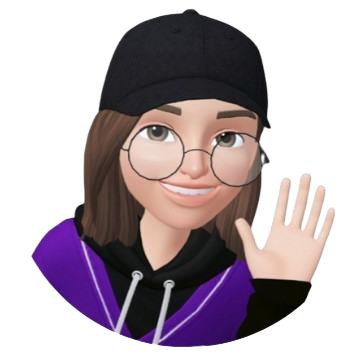
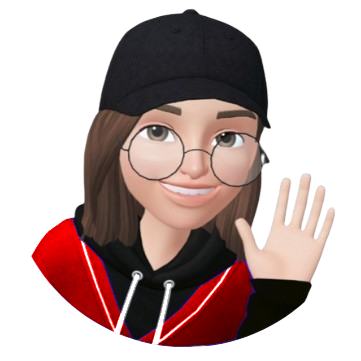
adicionando nina como mascote do chatbot

Changed region(s): [[0.3961, 0.7008, 0.7008, 0.9751], [0.0914, 0.6094, 0.3657, 0.9446], [0.3657, 0.7618, 0.3961, 0.7922]]

diff --git a/upload-ai-web/src/components/chatbot/chatbot.css b/upload-ai-web/src/components/chatbot/chatbot.css
@@ -1,4 +1,4 @@
-/* src/components/chatbot/Chatbot.css */
+@import url('https://fonts.googleapis.com/css2?family=Inter:wght@400;500;600&display=swap');
 
 .chatbot-widget-container {
     position: fixed;
@@ -39,15 +39,10 @@
     background-color: hsl(var(--muted)); 
     color: hsl(var(--muted-foreground));
 }
-.avatar svg { /* Se estiver usando ícones SVG como Lucide */
-    width: 20px;
-    height: 20px;
-}
-
 
 .message {
-    padding: 12px 18px; /* Mais padding interno */
-    max-width: calc(100% - 52px); /* Desconta o avatar e margens */
+    padding: 12px 18px;
+    max-width: calc(100% - 52px);
     word-wrap: break-word;
     line-height: 1.5;
     box-shadow: 0 1px 2px rgba(0,0,0,0.07);
@@ -61,12 +56,11 @@
 }
 
 .chatbot-toggle-button {
-    background-color: hsl(var(--primary));
     color: hsl(var(--primary-foreground));
     border: none;
     border-radius: 50%;
-    width: 60px;
-    height: 60px;
+    width: 80px;
+    height: 80px;
     font-size: 24px;
     cursor: pointer;
     box-shadow: 0 4px 8px rgba(0,0,0,0.2);
@@ -76,7 +70,7 @@
 }
 
 .chatbot-window {
-    width: 350px;
+    width: 365px;
     height: 500px;
     background-color: hsl(var(--popover, var(--card)));
     color: hsl(var(--popover-foreground, var(--card-foreground)));
@@ -87,6 +81,14 @@
     flex-direction: column;
     overflow: hidden;
     margin-top: 10px;
+    background-image: url('src/img/background-dark.jpg');
+    font-family: 'Inter', sans-serif;
+}
+
+html.light .chatbot-window,
+body.light .chatbot-window, 
+.light-theme .chatbot-window {
+    background-image: url('src/img/background-light.jpg'); 
 }
 
 .chatbot-header {
@@ -107,6 +109,13 @@
     color: inherit;
     font-size: 1.5em;
     cursor: pointer;
+}
+
+.chatbot-header-title {
+    font-size: 1.1em; 
+    font-weight: 600; 
+    color: hsl(var(--foreground));
+    letter-spacing: -0.01em; 
 }
 
 .chatbot-messages {
@@ -175,4 +184,15 @@
 
 .chatbot-input-area button:hover {
     filter: brightness(0.9);
+}
+
+.chatbot-toggle-button:hover {
+    transform: translateY(-2px) scale(1.05);
+    box-shadow: 0 8px 16px rgba(0,0,0, 0.25), 0 3px 6px rgba(0,0,0, 0.2);
+}
+
+.chatbot-toggle-icon {
+    width: 100%; 
+    height: 100%;
+    object-fit: cover;
 }

diff --git a/upload-ai-web/src/components/chatbot/ChatbotWidget.tsx b/upload-ai-web/src/components/chatbot/ChatbotWidget.tsx
@@ -58,7 +58,10 @@ const ChatbotWidget: React.FC = () => {
         <div className="chatbot-widget-container">
             {!isOpen && (
                 <button className="chatbot-toggle-button" onClick={toggleChatbot}>
-                    💬
+                    <img
+                        src="src/img/nina.png"
+                        className="chatbot-toggle-icon"
+                    />
                 </button>
             )}
             {isOpen && (
